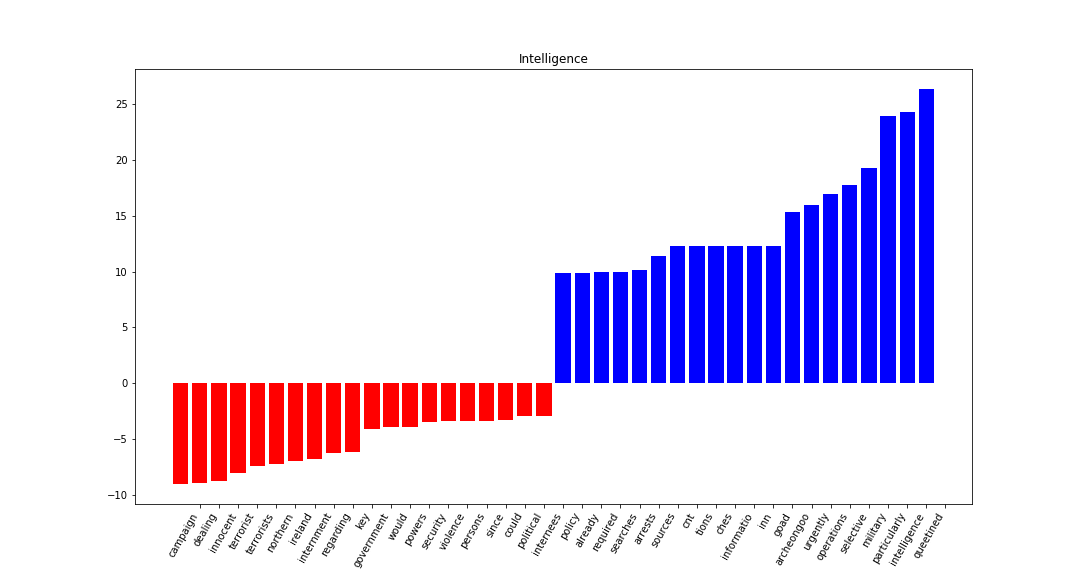
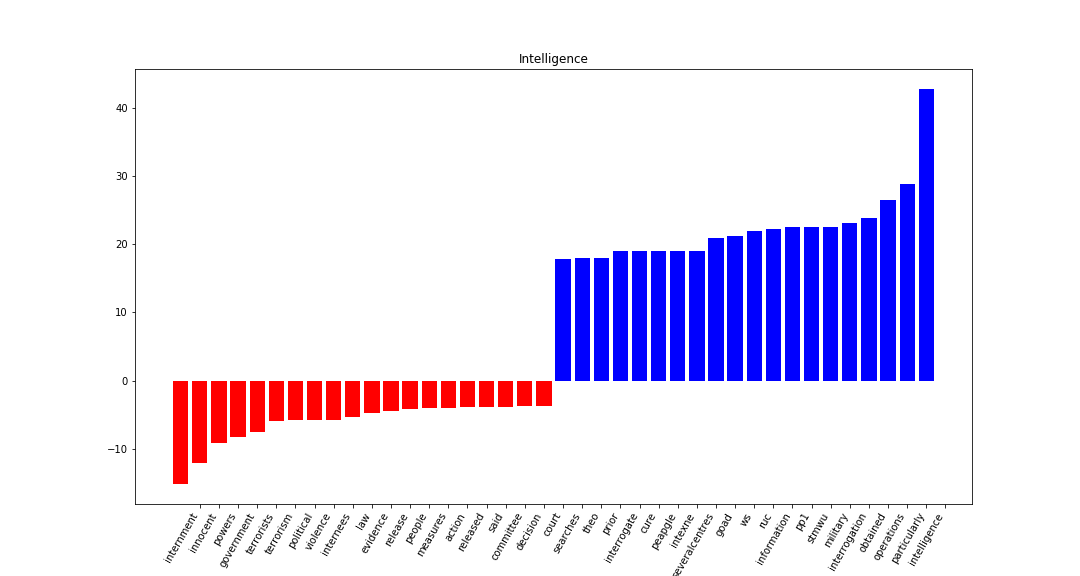
updating hist and ngram output

diff --git a/qual_analysis/plot_frequencies.py b/qual_analysis/plot_frequencies.py
@@ -54,7 +54,7 @@ plt.xticks(rotation=60)
 plt.subplot(2,1,2)
 (df.groupby('prem_15').text.count() / sum(df.groupby('prem_15').text.count())).plot.bar(ylim=0)
 plt.xlabel('File ID (proxy for date)')
-plt.ylabel('Proportion')
+plt.ylabel('Proportion of overall justifications')
 plt.xticks(rotation=60)
 
 plt.savefig(folder_path + 'freq_plots/J_All_time.png')
@@ -68,7 +68,7 @@ df_count.reset_index(inplace=True)
 df_count['total_just_per_file'] = df_count['text']
 df_count = df_count[['prem_15', 'total_just_per_file']]
 
-# Loop to plot each category
+# Loop to plot each category: count and proportion of justifications in that file
 for cat in df['justification_cat'].unique():
 
     df_cat = df[df['justification_cat']==cat]
@@ -83,7 +83,6 @@ for cat in df['justification_cat'].unique():
     plt.bar(df_cat_merge['prem_15'], df_cat_merge['cat_just_per_file'])
     plt.ylabel('Count')
     plt.title(cat)
-    plt.xticks(rotation=90)
     plt.xlabel('File (Proxy for date)')
     plt.xticks(rotation=60)
     
@@ -94,7 +93,28 @@ for cat in df['justification_cat'].unique():
     plt.xticks(rotation=60)
     plt.xlabel('File (Proxy for date)')
 
-    plt.savefig(folder_path + 'freq_plots/' + cat + '_time.png')
+    plt.savefig(folder_path + 'freq_plots/count_prop' + cat + '_time.png')
+    plt.close()
+
+
+# Loop to plot each category: raw count only
+
+for cat in df['justification_cat'].unique():
+
+    df_cat = df[df['justification_cat']==cat]
+    df_cat_count = df_cat.groupby('prem_15').clean_text.count()
+    df_cat_merge = pd.DataFrame.merge(df_count, df_cat_count, 'left', on='prem_15')
+    df_cat_merge.columns = ['prem_15', 'total_just_per_file', 'cat_just_per_file']
+    df_cat_merge = df_cat_merge.fillna(0)
+    
+    plt.figure(figsize=(10,5))
+    plt.bar(df_cat_merge['prem_15'], df_cat_merge['cat_just_per_file'])
+    plt.ylabel('Count')
+    plt.title(cat)
+    #plt.xlabel('File (Proxy for date)')
+    plt.xticks("")
+    
+    plt.savefig(folder_path + 'freq_plots/raw_count' + cat + '_time.png')
     plt.close()
 
 ##########################################################################################

diff --git a/class_multiclass/grid_search.py b/class_multiclass/grid_search.py
@@ -112,7 +112,7 @@ df.head()
 
 fig = plt.figure(figsize=(8,6))
 df.groupby('just_categories').clean_text.count().plot.bar(ylim=0)
-plt.savefig(repo_path + '/histograms/just_6' + '.png')
+plt.savefig(repo_path + '/histograms/just_12' + '.png')
 plt.show()
 
 ######################################
@@ -332,7 +332,7 @@ for predicted in category_id_df.category_id:
 model = LogisticRegression()
 model.fit(features, labels)
 
-N = 5
+N = 10
 for just, category_id in sorted(category_to_id.items()):
   indices = np.argsort(model.coef_[category_id])
   feature_names = np.array(tfidf.get_feature_names())[indices]
@@ -345,6 +345,23 @@ for just, category_id in sorted(category_to_id.items()):
 from sklearn import metrics
 print(metrics.classification_report(y_test, y_pred, target_names=df['just_categories'].unique()))
 
+# Attempt at populating lists that could be more easily visualized -- didn't quite work
+
+x = {}
+y = []
+z = []
+
+N = 10
+for just, category_id in sorted(category_to_id.items()):
+  indices = np.argsort(model.coef_[category_id])
+  x[just] = feature_names = np.array(tfidf.get_feature_names())[indices]
+  y.append = unigrams = [v for v in reversed(feature_names) if len(v.split(' ')) == 1][:N]
+  z.append = bigrams = [v for v in reversed(feature_names) if len(v.split(' ')) == 2][:N]
+  print(just, unigrams, bigrams)
+
+x
+len(y)
+len(z)
 
 # THIS WEEKEND:
 # UPDATE categories based on today's outputs Especially since Legal Procedure captures all of them
